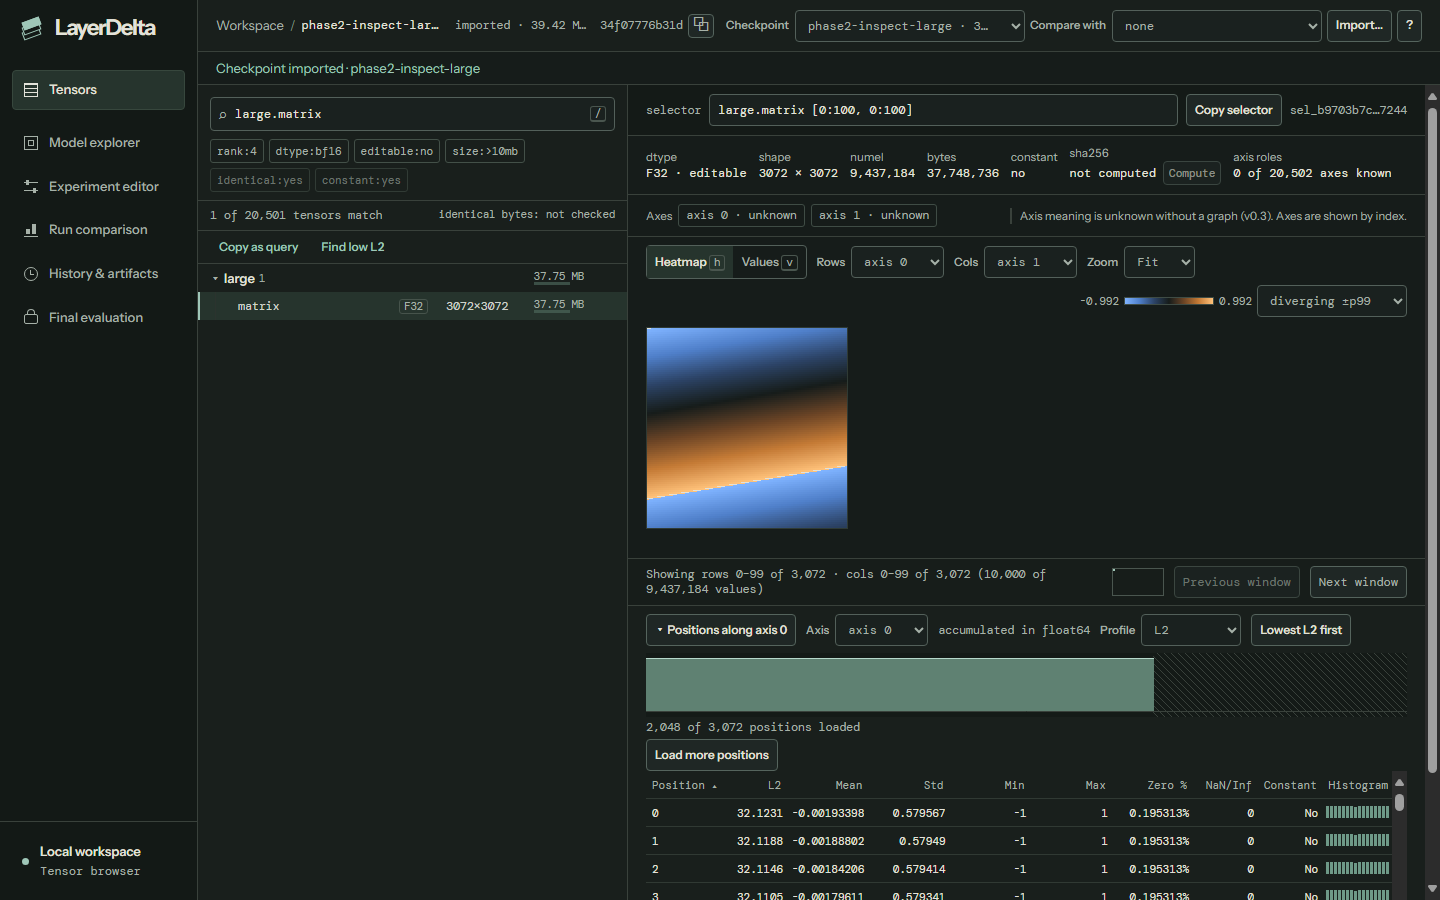
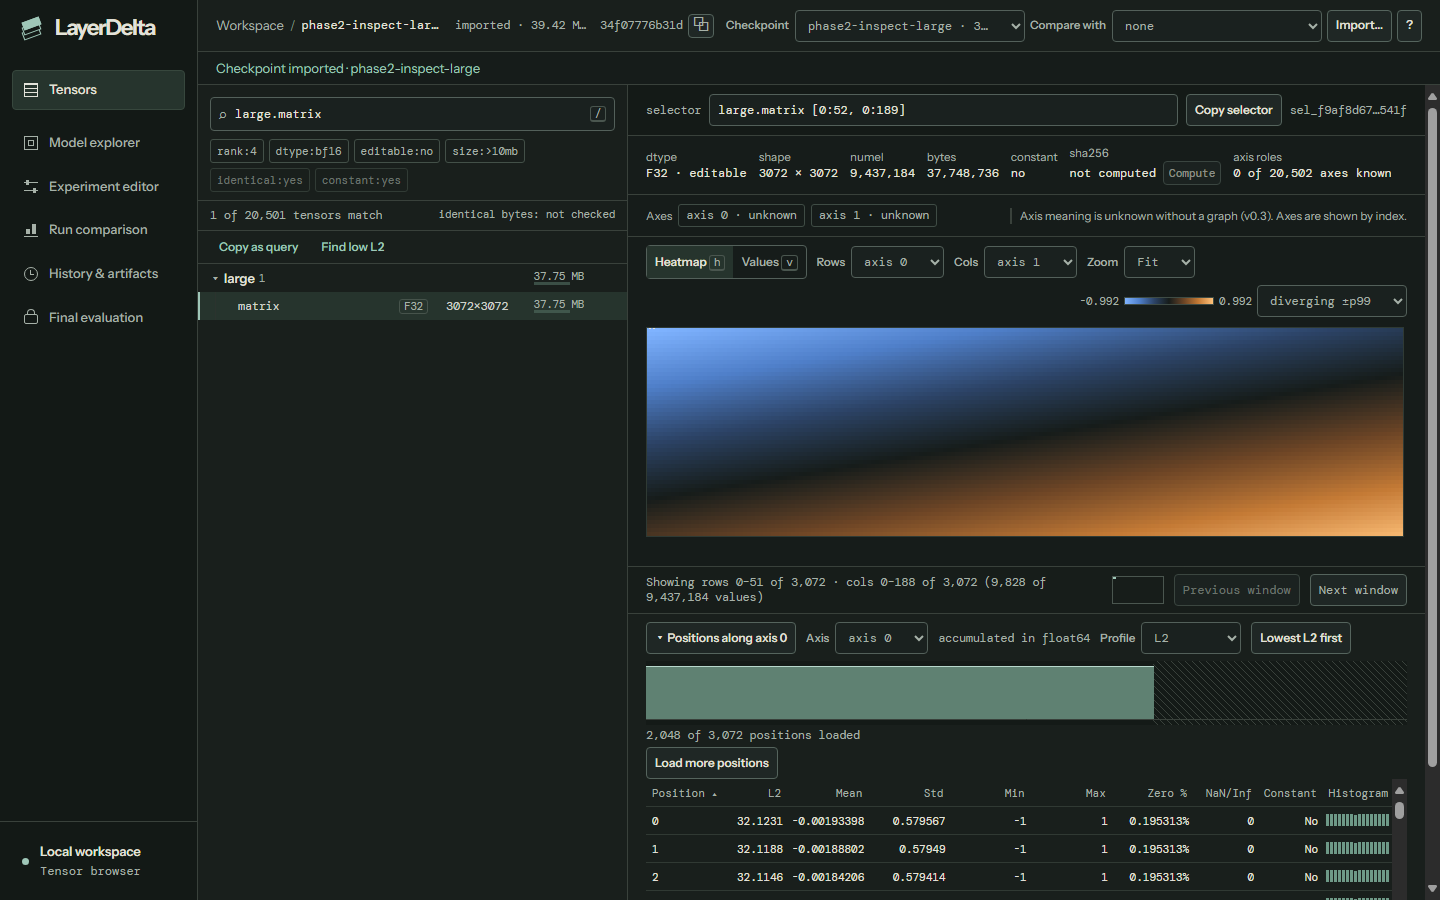
Use pane aspect and handle signed profile envelopes

diff --git a/desktop/src/TensorInspector.tsx b/desktop/src/TensorInspector.tsx
@@ -119,8 +119,13 @@ export function TensorInspector({source, checkpoint, other, tensor: t, status, c
   const rowLimit = Math.max(1, Math.floor((heatmapHeight + gap) / Math.max(1, tileRows * minFitCell + gap)));
   const fitsRows = fullRows <= rowLimit && fullRows <= regionCap;
   const balancedRows = Math.max(1, Math.min(rowLimit, Math.ceil(Math.sqrt(regionCap * fullRows / Math.max(1, fullCols)))));
-  const windowRows = !fit && fullCount <= pageCap ? fullRows : Math.min(fullRows,
-    fitsRows ? fullRows : spatial.length ? Math.min(16, balancedRows) : balancedRows);
+  const aspectRows = Math.ceil(Math.sqrt(regionCap * heatmapHeight * tileCols / Math.max(1, paneWidth * tileRows)));
+  const paneRows = Math.min(fullRows, rowLimit, regionCap, Math.max(1, aspectRows));
+  const paneRowsHeight = paneRows * tileRows + gap * Math.max(0, paneRows - 1);
+  // Give up one row when it lets the window use a larger cell and fill more of the pane.
+  const fitRows = paneRows > 1 && fitCell(paneRowsHeight - tileRows - gap) > fitCell(paneRowsHeight) ? paneRows - 1 : paneRows;
+  const windowRows = fit ? fitRows :
+    fullCount <= pageCap ? fullRows : Math.min(fullRows, fitsRows ? fullRows : spatial.length ? Math.min(16, balancedRows) : balancedRows);
   const matrixCell = fitCell(windowRows * tileRows + gap * Math.max(0, windowRows - 1));
   const colLimit = fit ? Math.floor((paneWidth + gap) / Math.max(1, tileCols * matrixCell + gap)) :
     Math.max(!comparing && fitsRows ? 1000 : 1, Math.floor(paneWidth / Math.max(1, tileCols * minFitCell)));

diff --git a/desktop/src/tensorUnits.tsx b/desktop/src/tensorUnits.tsx
@@ -81,14 +81,17 @@ function Profile({rows, total, get, onPosition, selected, axis}: {rows: Row[]; t
       if (!Number.isFinite(bucket.max)) continue;
       const barWidth = Math.max(1, bars - 1);
       const zero = y(0), min = y(bucket.min), max = y(bucket.max);
-      ctx.fillStyle = "#5f8172";
-      ctx.fillRect(x, Math.min(zero, min), barWidth, Math.max(1, Math.abs(zero - min)));
+      const near = y(bucket.min > 0 ? bucket.min : bucket.max < 0 ? bucket.max : 0);
       if (max < min) {
         ctx.fillStyle = "rgba(183,216,203,.7)";
         ctx.fillRect(x, max, barWidth, min - max);
       }
+      if (near !== zero) {
+        ctx.fillStyle = "#5f8172";
+        ctx.fillRect(x, Math.min(zero, near), barWidth, Math.abs(zero - near));
+      }
       ctx.fillStyle = "#b7d8cb";
-      ctx.fillRect(x, min, barWidth, 1);
+      ctx.fillRect(x, near, barWidth, 1);
     }
     ctx.fillStyle = "#e1f3e8";
     if (selected >= 0) ctx.fillRect(Math.floor(selected * width / total), 2, 1, 60);
